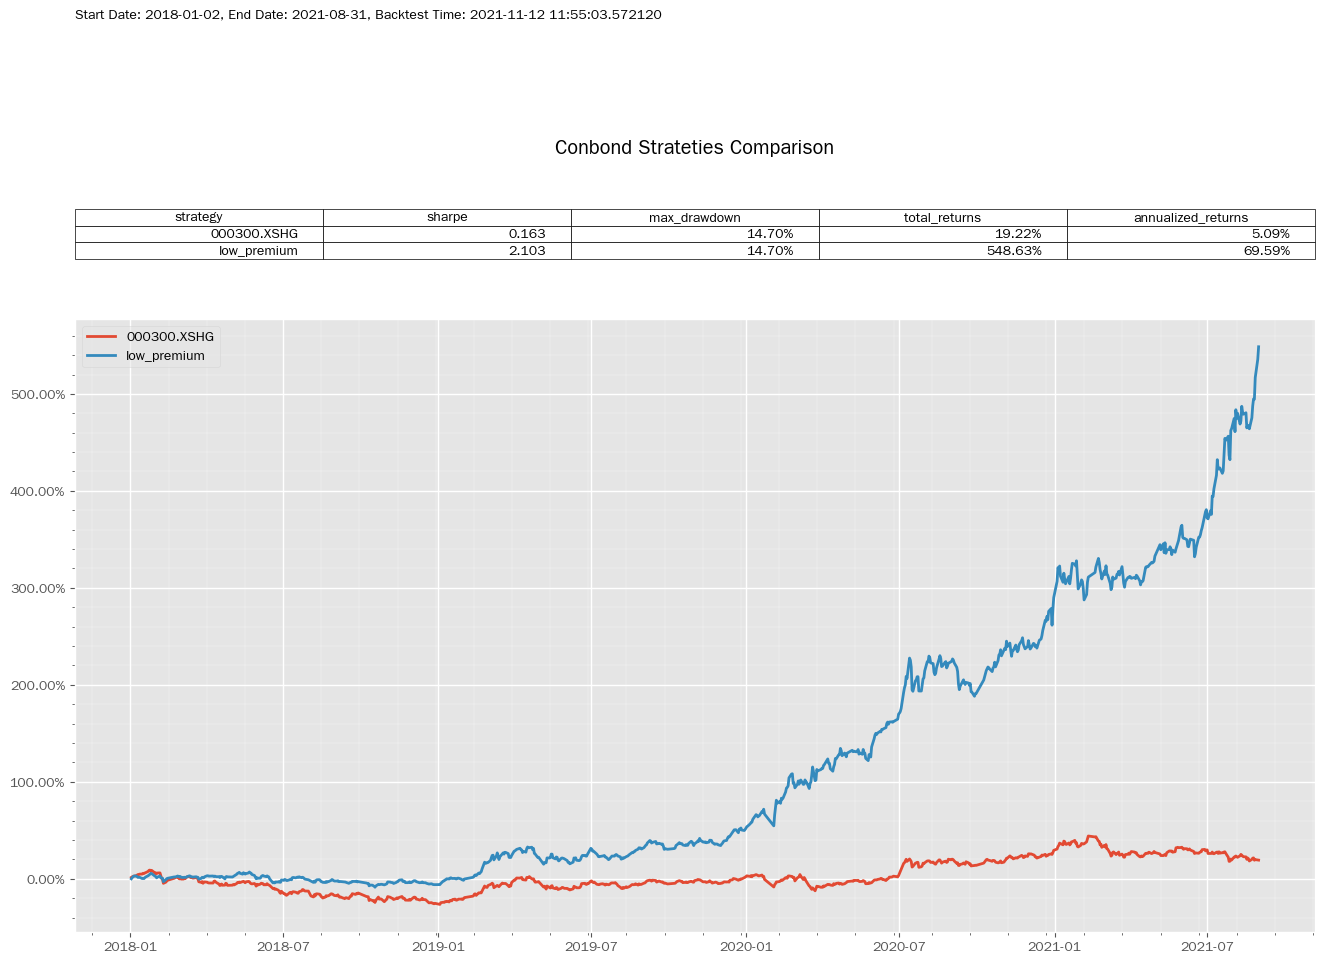
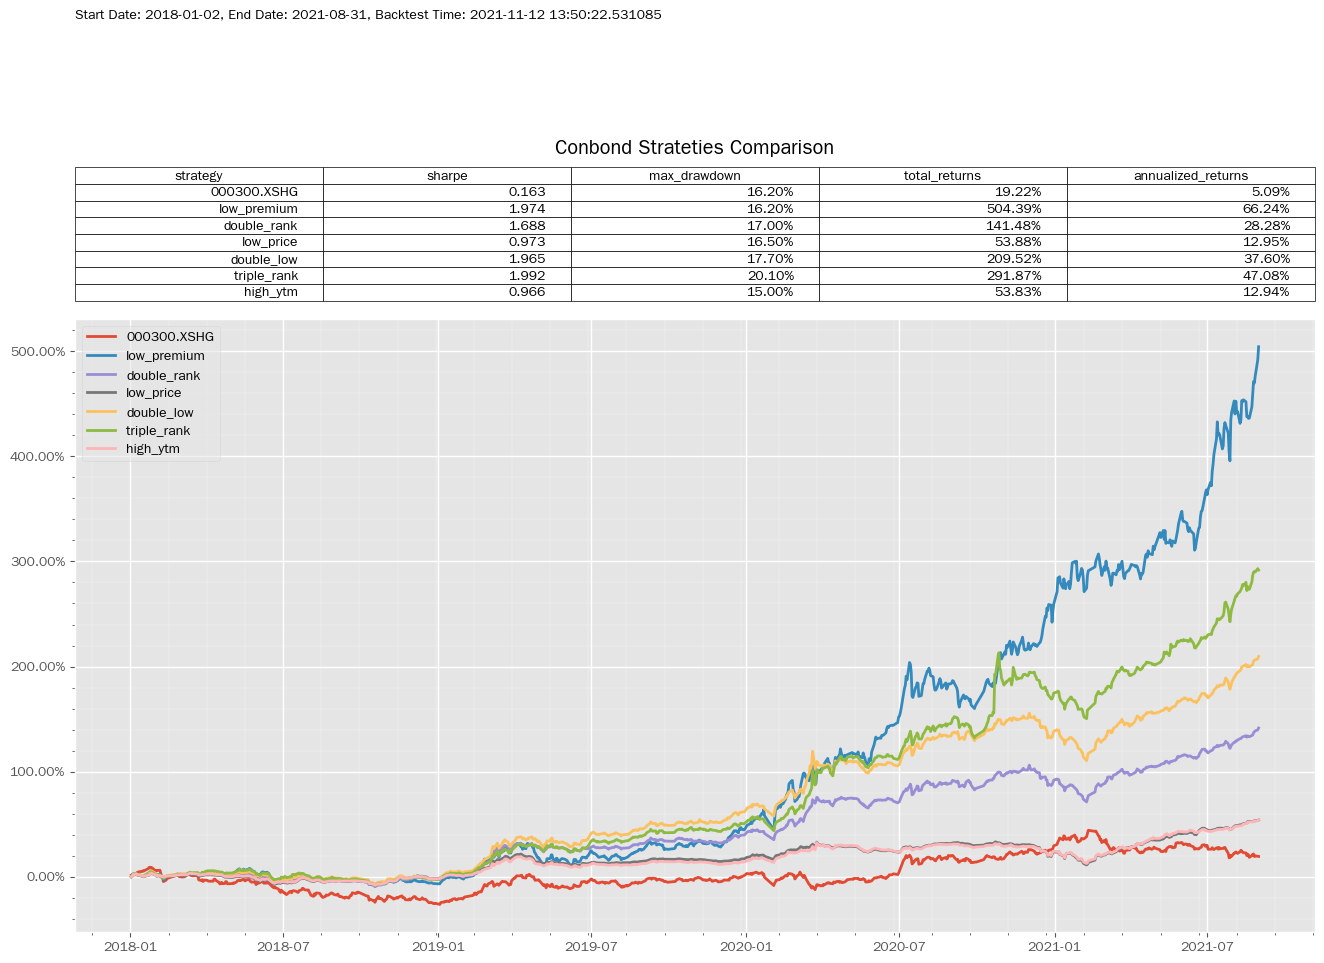
.

diff --git a/examples/backtest.py b/examples/backtest.py
@@ -32,8 +32,8 @@ flags.DEFINE_string('run_dir', None, 'Run directory')
 # for the backtest to work, we are making the convertible bond as common stock
 # The instruments.pk file will need to be updated to include all the bonds' order_book_id
 def init(context):
-    #  scheduler.run_weekly(rebalance, tradingday=1)
-    scheduler.run_daily(rebalance)
+    scheduler.run_weekly(rebalance, tradingday=1)
+    #  scheduler.run_daily(rebalance)
 
 
 def rebalance(context, bar_dict):
